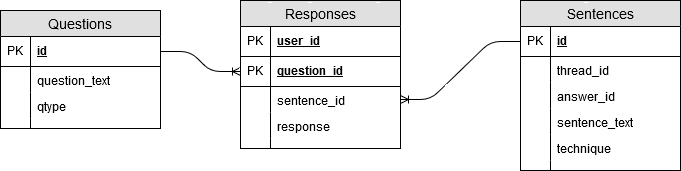
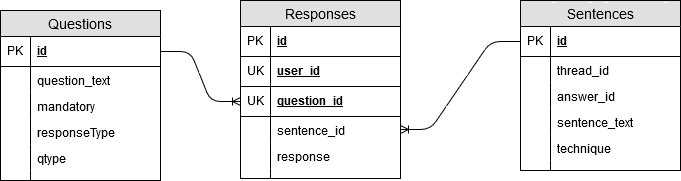
Edited db + added support for questions that need big text responses

diff --git a/app/controllers/concerns/thread_helpers.rb b/app/controllers/concerns/thread_helpers.rb
@@ -15,7 +15,10 @@ module ThreadHelpers
 		threadResponses = {}
 		threadResponsesTable.each do |record|
 			unless record[0] < 0 or record[0] == dummyThreadID # Ignore invalid threads
+				# logger.debug 'Adding: ' + record[0].to_s
 				threadResponses[record[0]] = record[1]
+			else
+				# logger.debug 'Ignoring: ' + record[0].to_s
 			end
 		end
 		
@@ -46,8 +49,8 @@ module ThreadHelpers
 			end
 		end
 		
-		if threadIDs.count < maxResponses # if less than 3 threads are picked, increase the limit and try again
-			logger.debug "Load balancing: all threads have " + maxResponses.to_s + " responses. Increasing by 5."
+		if threadIDs.count < 3 # if less than 3 threads are picked, increase the limit and try again
+			logger.debug "Load balancing: all threads have " + maxResponses.to_s + " responses. Increasing by 5"
 			neededThreads = 3 - threadIDs.count
 			threadIDs += generateThreads(maxResponses + 5)[0..(neededThreads - 1)]
 		end

diff --git a/app/controllers/concerns/fetch_questions.rb b/app/controllers/concerns/fetch_questions.rb
@@ -10,9 +10,11 @@ module FetchQuestions
 		questions = Question.where condition
 		@questions = {}
 		@questionRequirement = {}
+		@questionType = {}
 		questions.each do |question|
 			@questions[question.id] = question.question_text
 			@questionRequirement[question.id] = question.mandatory
+			@questionType[question.id] = question.responseType
 		end
 	end
 end

diff --git a/db/schema.rb b/db/schema.rb
@@ -16,6 +16,7 @@ ActiveRecord::Schema.define(version: 2018_11_22_052003) do
     t.text "question_text"
     t.string "qtype"
     t.boolean "mandatory"
+    t.string "responseType"
     t.datetime "created_at", null: false
     t.datetime "updated_at", null: false
   end

diff --git a/app/controllers/test_controller.rb b/app/controllers/test_controller.rb
@@ -2,7 +2,7 @@ class TestController < ApplicationController
 	include ThreadHelpers
 	
 	def testLoadBalancing
-		@threadIDs = generateThreads(MAX_RESPONSES)
+		@threadIDs = generateThreads(8)
 	end
 	
 	def testSentenceHighlighting

diff --git a/db/migrate/20181122051433_create_questions.rb b/db/migrate/20181122051433_create_questions.rb
@@ -4,6 +4,7 @@ class CreateQuestions < ActiveRecord::Migration[5.2]
       t.text :question_text
       t.string :qtype
 			t.boolean :mandatory
+			t.string :responseType
 
       t.timestamps
     end
